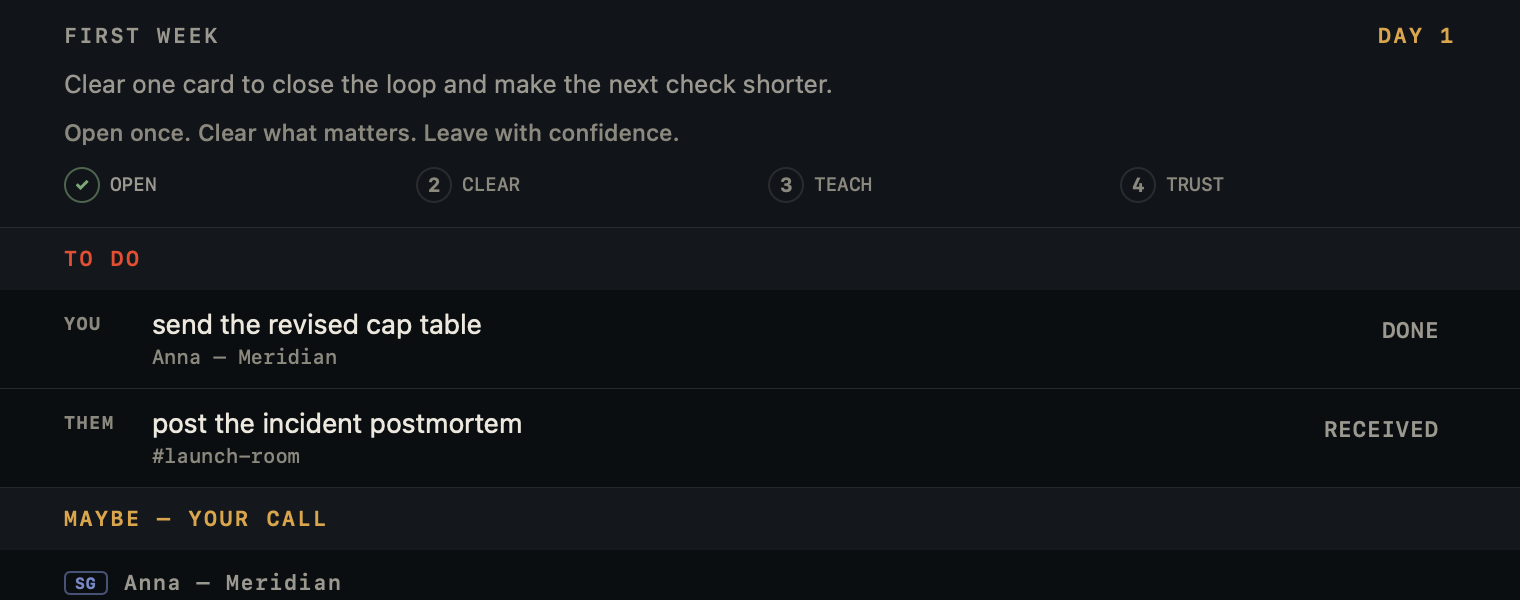
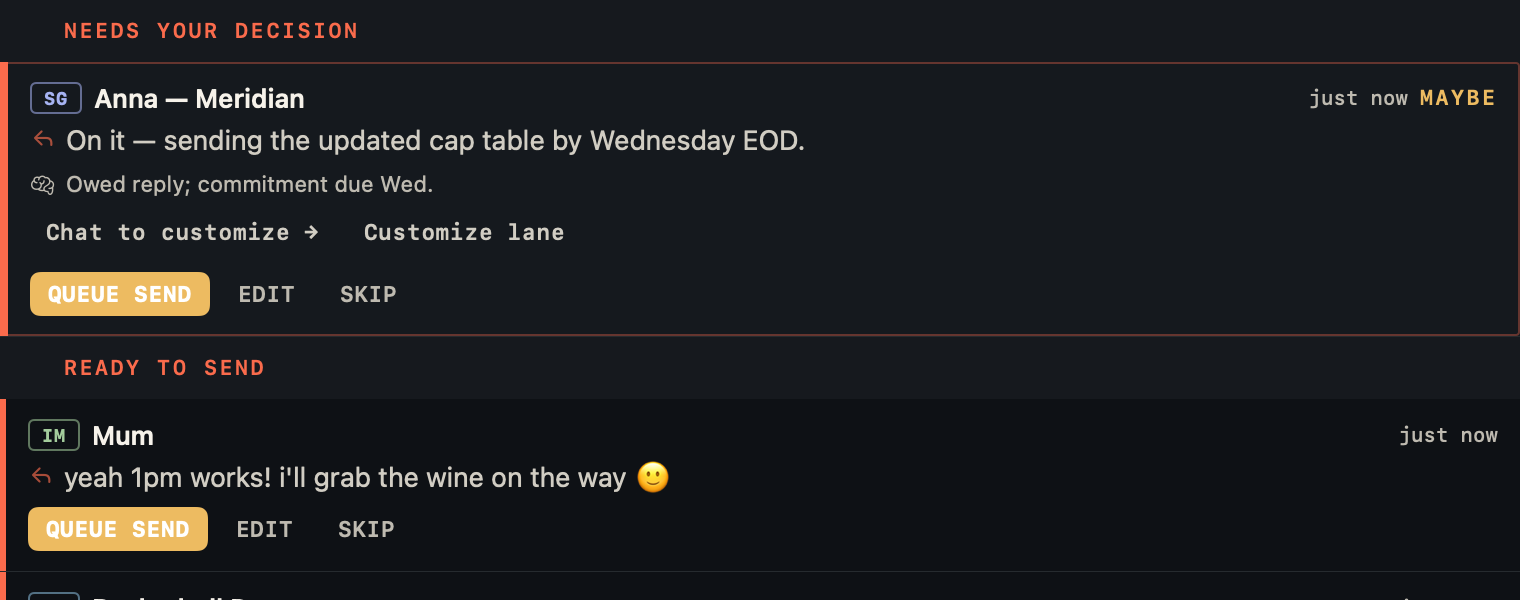
docs: refresh README screenshots and changelog for the 2.3.0 redesign
Screenshots were 13 days stale — captured before the navigation
rebuild, showing chrome (MainChromeBar, tabs beside an unrelated
digest) that no longer exists. Re-rendered via the design-snapshot
harness against current code:

- screenshot.png (hero) now shows the Digests reading view instead of
  duplicating the Act queue — matches the "read one digest" pitch.
- act.png / owed.png updated to the unified Act queue. Prose no longer
  frames "Owed Replies" as a separate surface with its own screenshot
  — Part 5 of the redesign folded it into the queue's Needs your
  decision/Ready to send/Waiting on others sections, so the copy and
  captions now say that.
- light-mode.png re-rendered against current chrome.

Added v2.2.5-v2.3.0 to the Shipped changelog (was stuck at v2.2.4).

diff --git a/README.md b/README.md
@@ -19,7 +19,7 @@ Free. Open source. On-device AI. Your messages never have to leave your Mac, and
 
 [**Download**](https://github.com/googlarz/LLMessenger/releases/latest) · [Quick start](#quick-start) · [The agent](#it-doesnt-just-tell-you--it-acts) · [How it works](#how-it-works) · [Privacy](#privacy) · [FAQ](#faq)
 
-![LLMessenger screenshot](docs/screenshot.png)
+![LLMessenger digest — one card expanded, the rest compact until you ask](docs/screenshot.png)
 
 <sub>Screenshots in this README use synthetic demo conversations from the test fixture, not personal message data.</sub>
 
@@ -53,9 +53,9 @@ Every card explains why it is there, which local source messages back it, whethe
 
 ## It doesn't just tell you — it acts
 
-Older versions *told you* what needed doing. Now an agent runs quietly in the background and **prepares the doing** — it drafts each reply in your voice for that conversation, lines up follow-ups and RSVPs, and presents them as a queue you clear with one tap. **Approve**, **Edit**, or **Skip** — nothing is ever sent without you.
+Older versions *told you* what needed doing. Now an agent runs quietly in the background and **prepares the doing** — it drafts each reply in your voice for that conversation, lines up follow-ups and RSVPs, and ranks them into one queue: **Needs your decision → Ready to send → Waiting on others → Later.** Each row shows who, what, and why now. **Approve**, **Edit**, or **Skip** — nothing is ever sent without you.
 
-![The Act queue — the agent's prepared actions, one tap each](docs/act.png)
+![The Act queue — ranked, one primary action per row](docs/act.png)
 
 - **Talk to it.** Type or say *"handle the easy ones"*, *"what do I owe people?"*, *"catch me up"* — speech is recognized on-device.
 - **Delegate the boring lanes (optional).** Turn on auto-send for a specific conversation and a specific low-risk action — "auto-acknowledge from my team", "auto-RSVP". It's **off by default**, restricted to safe templated replies, never a new recipient or anything with a link or money, and every auto-send waits 30 seconds with an **Undo** and lands in an audit log. A crafted message *can't* trigger or grant it — delegation is something only you set.
@@ -63,11 +63,11 @@ Older versions *told you* what needed doing. Now an agent runs quietly in the ba
 
 ## Never drop someone who matters
 
-The firewall protects you from what's coming *in*. **Owed Replies** protects the relationships going *out* — it surfaces the people still waiting on you, ranked by who counts, so a question from Mum or your kid's coach never gets buried under work chatter.
+The firewall protects you from what's coming *in*. The queue's **Needs your decision** and **Ready to send** sections protect the relationships going *out* — the people still waiting on you surface there, ranked by who counts, so a question from Mum or your kid's coach never gets buried under work chatter. **Waiting on others** flips it: what you're still owed.
 
 Digest cards separate **urgency** from **actionability**: a low-stakes family question can still be marked reply-needed without being inflated into an emergency.
 
-![Owed Replies — who's waiting on you, ranked by who matters](docs/owed.png)
+![The same queue, scrolled further — who's waiting on you, and who you're waiting on](docs/owed.png)
 
 It learns who matters from your own behavior, or you can just tell it: *"this is my son's basketball team — the coach posts about training and games, flag those, ignore the rest."* That per-conversation **context** then sharpens every triage decision and every digest. Conversations you mark private are never sent to a cloud model.
 
@@ -318,7 +318,22 @@ xcodebuild -scheme LLMessenger test    # keep them green
 - [ ] WhatsApp adapter (pending viable local API)
 
 <details>
-<summary>Shipped (v1.4 – v2.2.4)</summary>
+<summary>Shipped (v1.4 – v2.3.0)</summary>
+
+**v2.3.0** — the Mac-native redesign:
+- ✅ **Navigation rebuilt** — content-free sidebar (Act / Digests / Activity) drives the whole window; Act and Activity go full-width, Digests pairs the archive with the open digest
+- ✅ **Native title-bar toolbar** + a real macOS menu bar — search, refresh, service status, digest back/forward, and every command with a shortcut (previously missing entirely)
+- ✅ **Progressive digest cards** — default view is headline + two lines + one action; only the top card opens expanded
+- ✅ **Ask panel** — the AI conversation is opt-in from the toolbar, closed by default, so reading never looks like composing
+- ✅ **Act is one ranked queue** — Needs your decision / Ready to send / Waiting on others / Later, with ⌘-click batch approval
+- ✅ Settings consolidated 7 panes → 5; Reduce Motion and Increase Contrast honored app-wide; no text below 10pt
+- ✅ Feedback scaled to significance — toolbar spinner for routine refresh, floating toasts that don't displace content
+
+**v2.2.5 – v2.2.7** — internal hardening:
+- ✅ Act tab leads with what needs you; retrospective stats moved to Activity; first-week guide dismisses for good
+- ✅ Fixed several runtime crash-risk force-unwraps in the message adapters and poll pipeline
+- ✅ Brief JSON cached instead of re-decoded on every render; menu bar rebuilds coalesced to one per refresh
+- ✅ In-app "What's new" section in the About tab
 
 **v2.2.4** — trust, demo, and product-love pass:
 - ✅ Demo-first onboarding lets new users explore the command center before connecting real accounts
